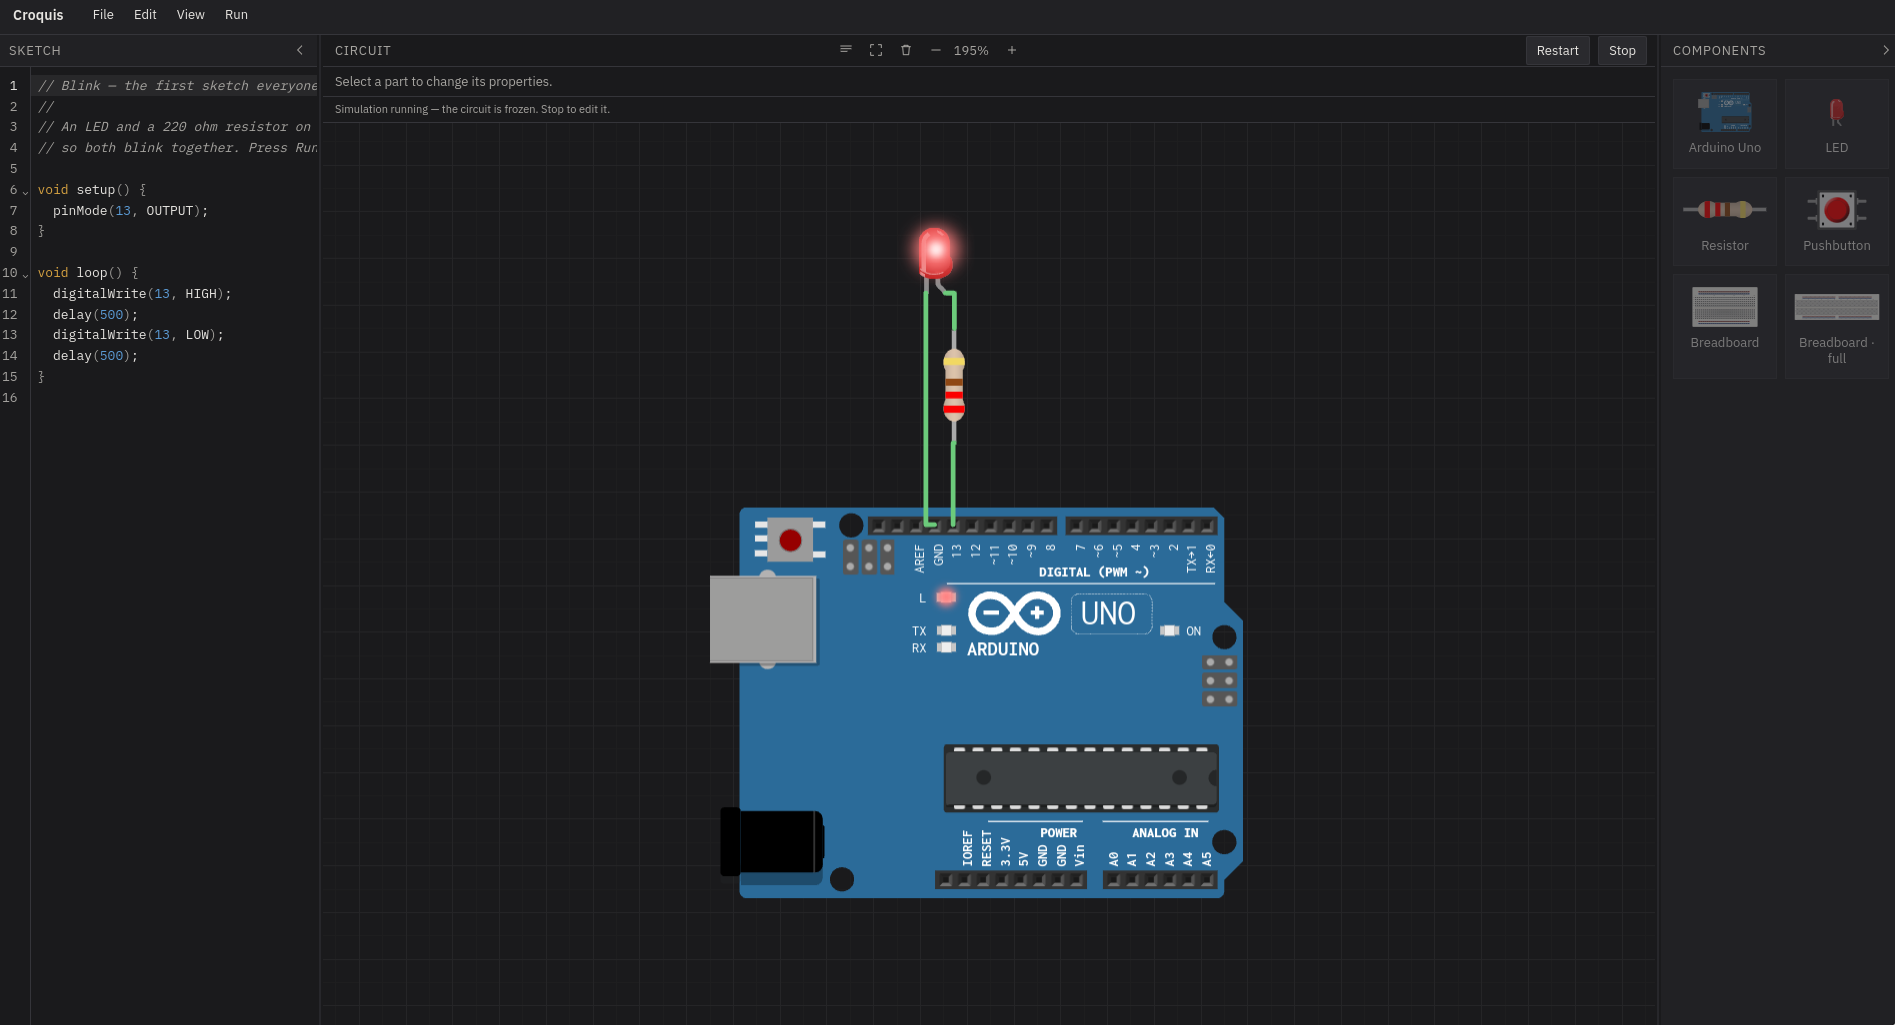
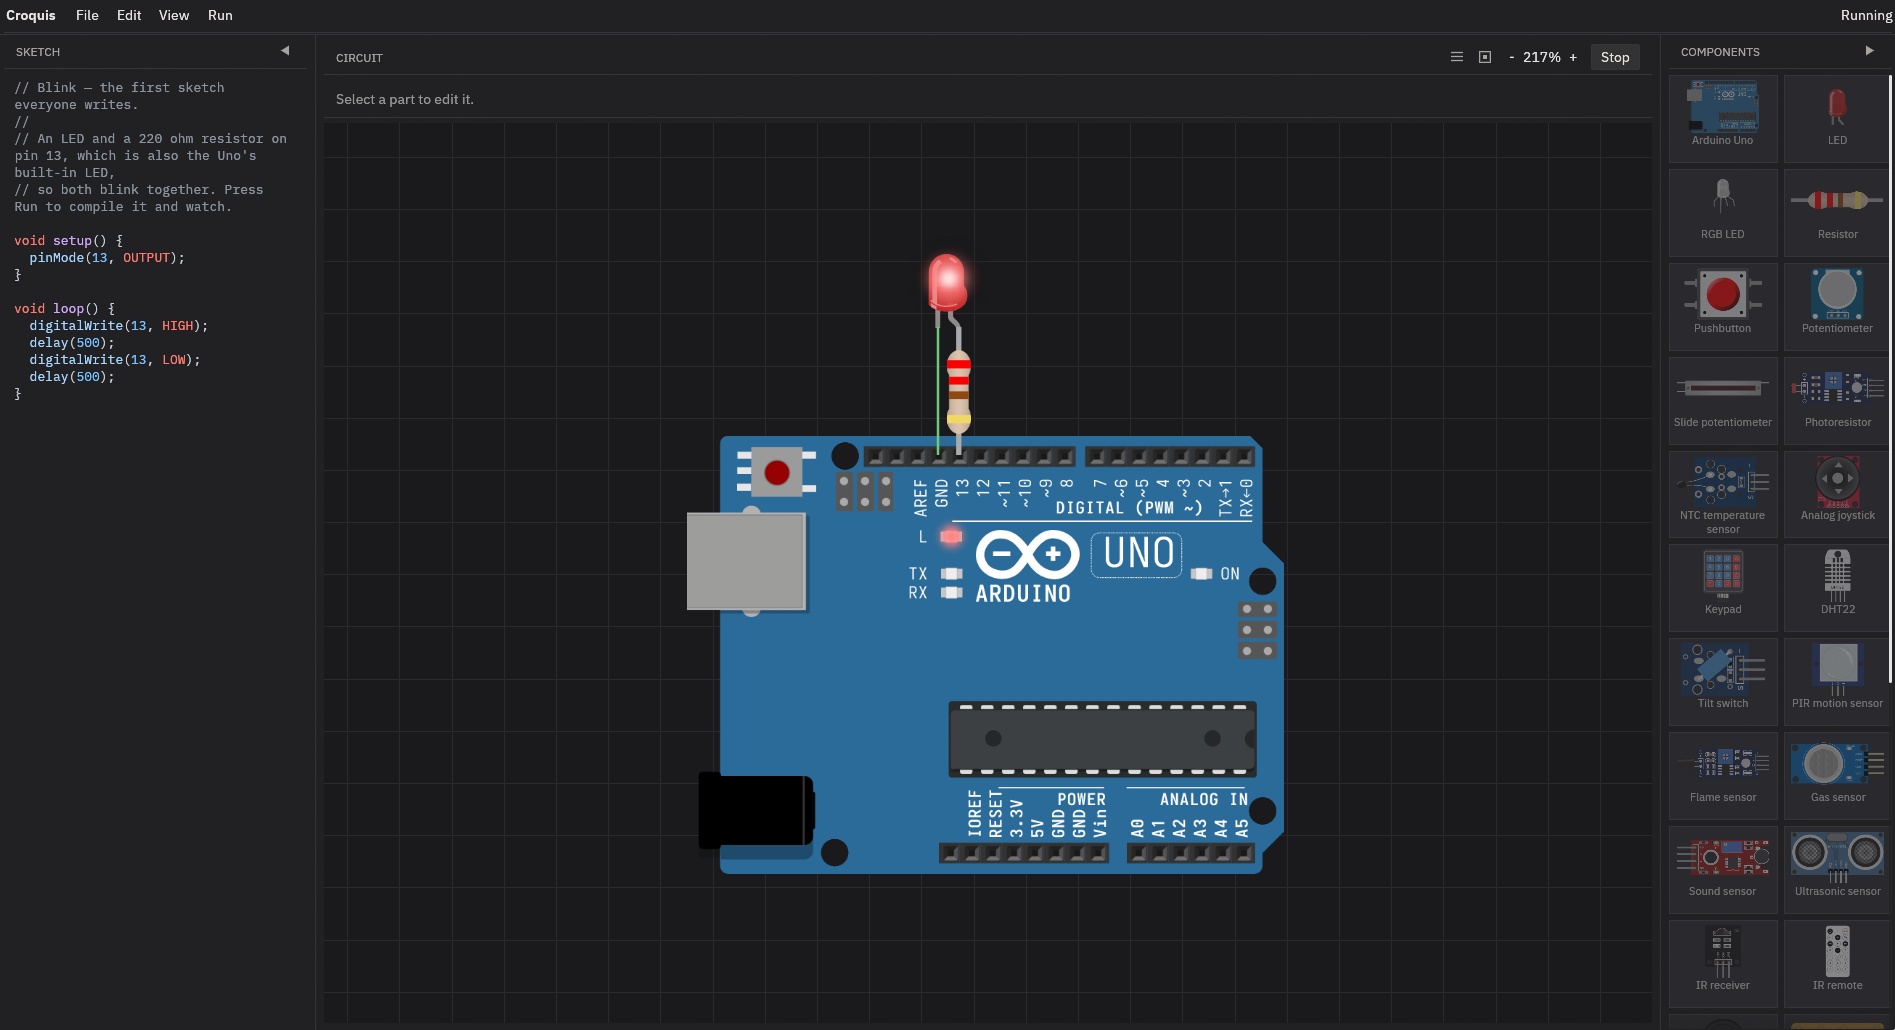
release: 0.3.1
The v0.2 Tauri app is gone and the rewrite lives in app/; touching pins conduct;
a resistor reads as a number and a unit and draws its own colour bands; the
properties strip is one line; and the canvas no longer takes presses that belong
to a popup.

Version 0.3.1 in app/Cargo.toml and its lock, so a tag passes the release
workflow's version check. Release notes for the tag, a screenshot of the app as
it is now, and the README's test count corrected to 258 — 171 in the app, 62 in
the core, 25 in the simulator.

diff --git a/README.md b/README.md
@@ -1,116 +1,78 @@
 <div align="center">
 
-[![GitHub Stars](https://img.shields.io/github/stars/emir12311/croquis?style=for-the-badge)](https://github.com/emir12311/croquis/stargazers)
-[![GitHub Issues](https://img.shields.io/github/issues/emir12311/croquis?style=for-the-badge)](https://github.com/emir12311/croquis/issues)
-[![License](https://img.shields.io/badge/license-AGPL%20v3-blue?style=for-the-badge)](https://www.gnu.org/licenses/agpl-3.0.html)
+<img src="croquis-logo.png" alt="Croquis" width="160">
 
-<br>
+# Croquis
 
-<img src="croquis-logo.png" alt="Croquis logo" width="180">
+**Draw an Arduino circuit, wire it to the Uno, and run a real AVR program — offline, on your own machine.**
 
-<br>
+[![License](https://img.shields.io/badge/license-AGPL--3.0-blue?style=flat-square)](LICENSE)
+[![Built with Rust](https://img.shields.io/badge/built%20with-Rust-orange?style=flat-square&logo=rust)](https://www.rust-lang.org)
+[![Platform](https://img.shields.io/badge/platform-Linux-lightgrey?style=flat-square&logo=linux&logoColor=white)](#install)
+[![Latest release](https://img.shields.io/github/v/release/emir12311/croquis?style=flat-square)](https://github.com/emir12311/croquis/releases/latest)
+[![Stars](https://img.shields.io/github/stars/emir12311/croquis?style=flat-square)](https://github.com/emir12311/croquis/stargazers)
 
-<h1>Croquis</h1>
-
-<p>A circuit simulator, running entirely on your own machine.</p>
+<img src="croquis-screenshot.png" alt="Croquis with a Blink circuit on the canvas" width="880">
 
 </div>
 
-<img src="croquis-screenshot.png" alt="Croquis with a blink circuit on the canvas">
+Croquis is a desktop simulator for Arduino circuits. Drag components onto a canvas, wire them up, write a sketch, press **Run**. The sketch is compiled to a real AVR program and executed instruction by instruction on `simavr`; the circuit around it is solved from your wires, so an LED with the right resistor lights at its simulated current — and one without a resistor is reported instead of lit.
 
-## What is Croquis?
+**No server. No account. No telemetry. No network calls.** Everything — the compiler, the chip, the parts, the libraries — ships inside the app.
 
-A desktop app for building and running Arduino circuits without an Arduino.
+> **Written by AI, directed by a human.** The code, tests and docs are generated; the scope, the taste and the bug reports are mine. This release is a rewrite in Rust and egui of the Tauri app that came before it.
 
-You drag components onto a canvas, wire them up, write a sketch and press Run. The sketch is compiled locally with `avr-gcc` and executed on a simulated AVR chip.
+## Contents
 
-There are twenty-four circuits to start from — **Blink**, **Button**, **Potentiometer**, **Photoresistor**, **Thermometer**, **Slide potentiometer**, **RGB LED**, **Joystick**, **Digital sensors**, **Gas sensor**, **DHT22**, **Keypad**, **IR remote**, **Ultrasonic**, **Seven segment**, **Four digit**, **LED bar**, **Servo**, **Stepper**, **Shift register**, **LCD 1602**, **Buzzer & relay**, **Button + serial** and **Fade** — under File → Presets.
+[What it does](#what-it-does) · [Circuits](#twenty-four-circuits-to-start-from) · [Install](#install) · [Controls](#controls) · [How it works](#how-it-works) · [Under the hood](#under-the-hood) · [Limits](#what-it-doesnt-do-yet) · [Releases](#releases) · [Docs](#docs)
 
-| Feature | What it does |
+## What it does
+
+| Category | Details |
 | --- | --- |
-| **Parts** | Uno, LED and RGB LED, resistor, pushbutton, rotary and slide potentiometers, photoresistor, NTC temperature sensor, analog joystick, tilt switch, PIR, flame, gas and sound sensors, DHT22, HC-SR04, 4×4 keypad, IR receiver and remote, 74HC595, servo, stepper, LCD1602, buzzer, relay, 7-segment and 4-digit displays, LED bar; half and full breadboards |
-| **Canvas** | Drag, rotate, snap; orthogonal wiring; multi-select; undo/redo; copy/paste |
-| **Simulation** | `avr-gcc` + `simavr`; LEDs and RGB LEDs at simulated current and PWM brightness, live buttons, analogue sensors (a divider, a LDR module with a thresholded output, an NTC, a two-axis joystick), digital sensors (tilt, PIR, flame, gas and sound), DHT22/HC-SR04/keypad/stepper/IR/74HC595 models, offline Servo and LiquidCrystal libraries, buzzer audio, relay contacts, 7-segment (1/4-digit) and LED-bar outputs, modelled bounce |
-| **Editor** | CodeMirror + Arduino API completions; serial monitor docked beside the circuit |
-| **Files** | Wokwi's `diagram.json` import and export, sketch included |
+| **Parts** | Arduino Uno, LEDs (including RGB), resistor, pushbutton, rotary and slide potentiometers, photoresistor, NTC temperature sensor, analog joystick, tilt / PIR / flame / gas / sound sensors, DHT22, HC-SR04, 4×4 keypad, IR receiver and remote, 74HC595, servo, stepper, LCD1602, buzzer, relay, 7-segment and 4-digit displays, LED bar — plus half and full breadboards |
+| **Canvas** | Drag, rotate, and drop into breadboard holes; orthogonal wiring with draggable corners and re-pluggable ends; marquee select; undo/redo; copy, cut, paste and duplicate — parts and the wiring between them |
+| **Simulation** | `avr-gcc` compiles, `simavr` runs. LEDs follow simulated current and PWM duty; buttons, joysticks and sensor modules drive the pins; DHT22, HC-SR04, keypad, stepper, IR and 74HC595 have protocol models; buzzer audio; relay contacts; a switch's bounce is modelled and optional |
+| **Editor** | Completion from the Arduino API, auto-indent, wrapping, and the compiler's diagnostics listed with their line. A serial monitor that both prints and sends |
+| **Files** | Wokwi's `diagram.json`, in both directions, sketch included. A circuit does not creep when it is opened and saved again |
+| **Extras** | English and Turkish, a light and a dark theme, and a question before anything unsaved is thrown away |
 
-Written by AI, directed by me: the code, tests and docs are generated, the scope and the bug reports are mine.
+## Twenty-four circuits to start from
 
-## Why is Croquis?
+**File → Presets → Basics / Sensors / Outputs** — each one a real `diagram.json` with its sketch, so you can press Run before writing anything.
 
-I was frustrated by a gap in the industry: a circuit simulator that was local, offline, free and polished just didn't exist.
+<details>
+<summary><b>Show the list</b></summary>
 
-That's why I made Croquis. No server, no account, no telemetry, no network calls.
+<br>
 
-## How is Croquis?
+| Group | Circuits |
+| --- | --- |
+| **Basics** | Blink · Button · Button + serial · Fade |
+| **Sensors** | Potentiometer · Slide potentiometer · Photoresistor · Thermometer · DHT22 · Digital sensors · Gas sensor · Joystick · Keypad · IR remote · Ultrasonic |
+| **Outputs** | RGB LED · Seven segment · Four digit · LED bar · Servo · Stepper · Shift register · LCD 1602 · Buzzer & relay |
 
-The sketch isn't interpreted. It's compiled to a real AVR program and run instruction by instruction, paced to real time.
+</details>
 
-See the [How It Works](#how-it-works) section for the diagram.
+## Install
 
-## When is Croquis?
+Every package carries the AVR toolchain and the bundled Arduino libraries, so a sketch compiles on a machine that has never had `avr-gcc` installed. All four are on the [Releases](https://github.com/emir12311/croquis/releases/latest) page.
 
-| Release | Date | Since the previous |
-| --- | --- | --- |
-| v0.1 | 2026-10-18 | — |
-| v0.1.1 | 2026-10-18 | same day |
-| v0.1.2 | 2026-10-18 | same day |
-| v0.1.3 | 2026-10-20 | 2 days |
-| v0.2.0 | 2026-10-23 | 3 days |
-| v0.3.0 | 2026-11-11 07:05 | 19 days |
+| Format | Command |
+| --- | --- |
+| **AppImage** — recommended | `chmod +x croquis-*.AppImage && ./croquis-*.AppImage` |
+| **.deb** — Debian, Ubuntu, Mint | `sudo apt install ./croquis_*.deb` |
+| **.rpm** — Fedora, openSUSE | `sudo dnf install ./croquis-*.rpm` |
+| **Arch package** — Arch, Artix, Endeavour | `sudo pacman -U croquis-*.pkg.tar.zst` |
 
-Dates are those of the tagged commit, and v0.3.0's time is when its tag was made. It is the same
-circuit editor, rewritten in Rust with egui.
+One file and no root with the AppImage; every other format installs the app, its icon and the menu entry together, and removes with `apt remove croquis`, `dnf remove croquis` or `pacman -R croquis`.
 
-## Installation
+<details>
+<summary><b>Build from source</b></summary>
 
-Every package is self-contained: it carries the AVR toolchain and the bundled Arduino libraries, so a
-sketch compiles on a machine that has never had `avr-gcc` installed.
+<br>
 
-### AppImage — recommended
-
-Download `croquis-<version>-x86_64.AppImage` from
-[Releases](https://github.com/emir12311/croquis/releases/latest), then:
-
-```bash
-chmod +x croquis-*.AppImage
-./croquis-*.AppImage
-```
-
-One file, nothing to install, no root, works on any distribution. Delete it and nothing is left behind.
-
-### Debian, Ubuntu, Mint and anything else on apt
-
-From the same [Releases](https://github.com/emir12311/croquis/releases/latest) page:
-
-```bash
-sudo apt install ./croquis_*.deb
-```
-
-Installs the app, its icon and the menu entry together. `sudo apt remove croquis` removes all of it.
-
-### Fedora, openSUSE and anything else on rpm
-
-```bash
-sudo dnf install ./croquis-*.rpm   # or: sudo zypper install ./croquis-*.rpm
-```
-
-### Arch, Artix, Endeavour
-
-```bash
-sudo pacman -U croquis-*.pkg.tar.zst
-```
-
-A prebuilt package: nothing is compiled, and the toolchain comes with it. `sudo pacman -R croquis`
-removes it.
-
-### From source
-
-Requirements:
-
-* A **glibc** Linux — desktop is the only target so far
-* [Rust](https://rustup.rs) and a C toolchain
-* ALSA, and the usual X11/Wayland/GL development headers (`alsa-lib`, `libxkbcommon`, `libglvnd` on Arch)
+Requirements: a glibc Linux, [Rust](https://rustup.rs) with a C toolchain, and ALSA plus the usual X11/Wayland/GL development headers (`alsa-lib`, `libxkbcommon`, `libglvnd` on Arch).
 
 ```bash
 git clone https://github.com/emir12311/croquis
@@ -119,14 +81,11 @@ cd croquis
 cargo run --release --manifest-path app/Cargo.toml
 ```
 
-`./scripts/package.sh all` builds the four packages above: it stages one payload and wraps it as a
-.deb, an .rpm, an AppImage and an Arch package, so they cannot disagree about what is inside.
+`./scripts/package.sh all` builds the four packages above from one staged payload, so they cannot disagree about what is inside.
 
-## Usage
+</details>
 
-Write a sketch, place parts, wire them up, and press **Run** in the top right of the circuit bar. While a sketch runs the circuit is frozen — **Stop** lets you rewire, and **Run** again applies an edited sketch.
-
-Compiler errors appear in the serial panel with their line number. While a sketch runs, the serial monitor's input row sends text to `Serial.read()` — with an optional trailing newline. Closing the window with unsaved changes asks before discarding them.
+## Controls
 
 | Input | Does |
 | --- | --- |
@@ -148,7 +107,9 @@ Compiler errors appear in the serial panel with their line number. While a sketc
 | `Delete` · `Backspace` | Delete the selection |
 | `Esc` | Cancel a wire, or clear the selection |
 
-## How It Works
+## How it works
+
+The sketch is not interpreted. It is compiled and then run, one instruction at a time, paced to real time:
 
 ```text
 Your sketch
@@ -175,20 +136,53 @@ Your sketch
     held as a voltage, so analogRead(A0) re-reads it every loop
 ```
 
-That's basically it.
+## Under the hood
+
+| Category | Details |
+| --- | --- |
+| **Shell** | Rust and [egui](https://github.com/emilk/egui) — immediate mode, drawn by the app itself. There is no webview, no browser and no JavaScript in the loop |
+| **Engine** | `crates/croquis-sim` compiles sketches and bridges [simavr](https://github.com/buserror/simavr); `crates/croquis-core` holds the netlist, the orthogonal router and the `diagram.json` format |
+| **Part art** | The [Wokwi](https://github.com/wokwi/wokwi-elements) element SVGs, rasterised once into textures with [resvg](https://github.com/linebender/resvg) |
+| **Editor** | [`egui_code_editor`](https://github.com/falcon7886/egui_code_editor) — completion, auto-indent and wrapping, on the shell's own colours |
+| **Tests** | 258 of them: 171 in the app, 62 in the core, 25 in the simulator. All 24 presets are compiled, simulated and checked against a frozen v0.2 baseline |
+| **Packaging** | One payload, four formats, built by `scripts/package.sh` — each package carries `usr/lib/croquis/{toolchain,libraries}` |
 
 ## What it doesn't do yet
 
-* **One board.** A second Uno gets its own circuit but shares the single sketch.
-* **A small electrical model, not a circuit solver.** A resistor does something real and a missing one is reported, and the potentiometer is a fixed divider between its rails. There are no arbitrary parallel networks.
-* **Wokwi files open with one caveat:** a wire using Wokwi's `*` route separator draws a different path here, to the same pins.
+- **One board.** A second Uno gets its own circuit but shares the single sketch.
+- **A small electrical model, not a circuit solver.** A resistor does something real and a missing one is reported, and the potentiometer is a fixed divider between its rails. There are no arbitrary parallel networks.
+- **Wokwi files open with one caveat:** a wire using Wokwi's `*` route separator draws a different path here, to the same pins.
+- **No jumping to a line.** The editor widget exposes no way to place a caret, so a compiler error names its line but a click cannot take you there.
+
+## Releases
+
+| Release | Date | Since the previous | Explanation |
+| --- | --- | --- | --- |
+| v0.1 | 2026-10-18 | — | First release |
+| v0.1.1 | 2026-10-18 | same day | Presets frame themselves on load; each compile gets its own build directory |
+| v0.1.2 | 2026-10-18 | same day | Snapping fixes — a part moves only when *every* leg lands in a hole |
+| v0.1.3 | 2026-10-20 | 2 days | A potentiometer you can turn while the sketch runs; compiler errors name their line |
+| v0.2.0 | 2026-10-23 | 3 days | The rest of the starter kit: DHT22, keypad, stepper, IR, 74HC595, HC-SR04, an offline Servo |
+| v0.3.0 | 2026-11-11 | 19 days | Rewritten in Rust and egui — no webview — and a language system: English and Turkish |
+| v0.3.1 | 2026-11-13 04:56 | 2 days | Touching pins conduct, a resistor reads and draws its value, and the Tauri app is gone |
+
+v0.3.0 is the same circuit editor rewritten in Rust with egui — [the notes](docs/releases/v0.3.0.md) say what changed.
+
+## Docs
+
+- [`docs/features.md`](docs/features.md) — everything it does, at length
+- [`docs/dev-notes.md`](docs/dev-notes.md) — the stack, and the gotchas that cost time
+- [`AGENTS.md`](AGENTS.md) — how to work on this repo
 
 ## License
 
 **GNU Affero General Public License v3.0.** See [`LICENSE`](LICENSE), and [`NOTICE`](NOTICE) for what is bundled.
 
-## Docs
+<div align="center">
+<br>
 
-- [`docs/features.md`](docs/features.md) — everything it does, at length
-- [`docs/dev-notes.md`](docs/dev-notes.md) — gotchas and the stack
-- [`AGENTS.md`](AGENTS.md) — how to work on this repo
+<img src="croquis-icon.png" alt="" width="48">
+
+<sub>No server, no account, no telemetry, no network calls.</sub>
+
+</div>

diff --git a/docs/releases/v0.3.1.md b/docs/releases/v0.3.1.md
@@ -1,0 +1,43 @@
+Offline circuit simulator: build an Arduino circuit on a canvas, write a sketch, and run
+it on a real AVR core. No server, no account, no network.
+
+- **AppImage** — recommended. `croquis-0.3.1-x86_64.AppImage`
+- **.deb** — `sudo apt install ./croquis_0.3.1_amd64.deb`
+- **.rpm** — `sudo dnf install ./croquis-0.3.1-1.x86_64.rpm`
+- **Arch, Artix, Endeavour** — `sudo pacman -U croquis-0.3.1-1-x86_64.pkg.tar.zst`
+
+Every package carries its own AVR toolchain and the bundled Arduino libraries, so
+compiling a sketch needs nothing else installed. AGPL-3.0.
+
+## Fixed in 0.3.1
+
+- **Touching pins conduct.** A part dragged so its pin landed on another pin looked
+  connected and did nothing: the netlist joined only what a wire joined. Contact is a
+  wire in its own right now, and it feeds the rail resolution as well as the net union —
+  unioning the pins alone was not enough, because a circuit with no wires then has no
+  rails to work out and stays dark.
+- **A resistor reads as a number and a unit.** It was one drag box showing `10000 Ω`,
+  with the catalogue's pΩ–TΩ table unused. It is `10` beside a `kΩ` dropdown, and the
+  value still lands in the file as a plain ohm count.
+- **A resistor's colour bands follow its value.** The element's drawing is a fixed 220 Ω,
+  so every resistor looked like 220 Ω however it was set. 10 kΩ now draws brown, black,
+  orange; 4k7 draws yellow, violet, red.
+- **Clicking a dropdown item no longer deselects the part.** The canvas reads the pointer
+  from raw input, so a click on the popup — which floats above the canvas but sits inside
+  its rect — was read as a click on empty canvas, which cleared the selection and closed
+  the properties strip mid-change.
+- **The properties strip is one line.** The number box was pinned to 18 px while the
+  dropdown sized itself from text plus padding, and each centred on its own box.
+
+## Changed in 0.3.1
+
+- **The v0.2 Tauri app is gone.** `src/`, `src-tauri/`, the npm toolchain and the two
+  scripts that drove it are removed. Nothing had run their tests since v0.3 replaced the
+  app, and carrying them meant carrying a second build nobody exercised.
+- **The app lives in `app/`.** `spike/egui` was a spike's name on the only thing that
+  ships; `git mv` kept the history with the files.
+- **A new README**, reorganised around what people scan for, and a screenshot that shows
+  the current app rather than v0.1.
+
+Everything else is 0.3.0 — see [its notes](v0.3.0.md). 258 tests: 171 in the app, 62 in
+the core, 25 in the simulator.
